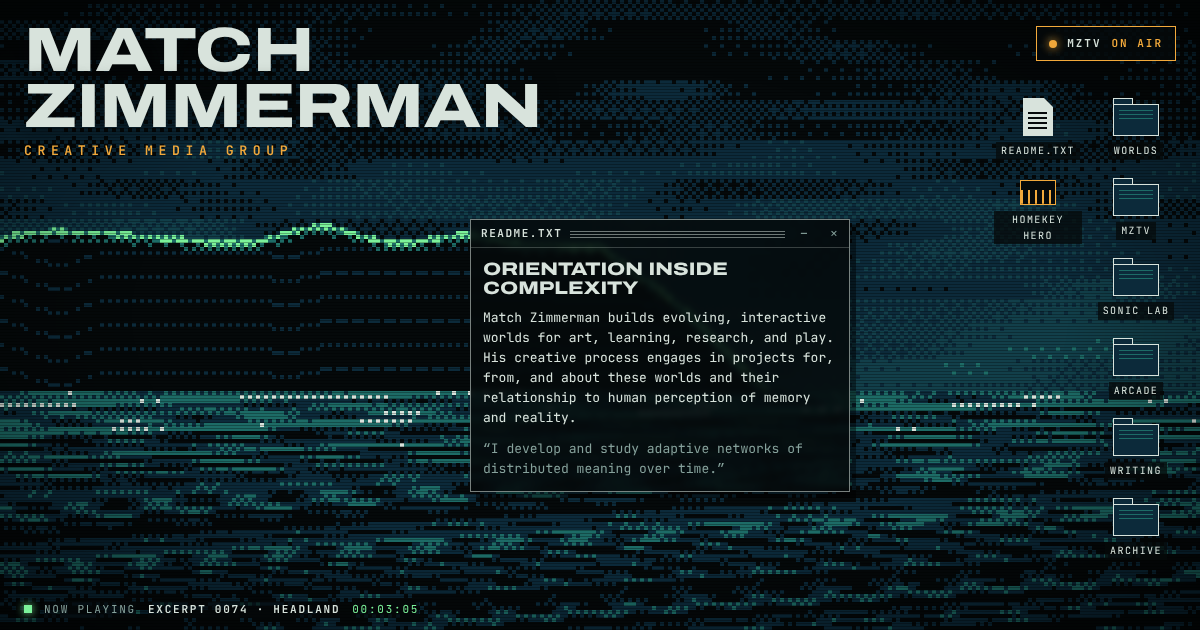
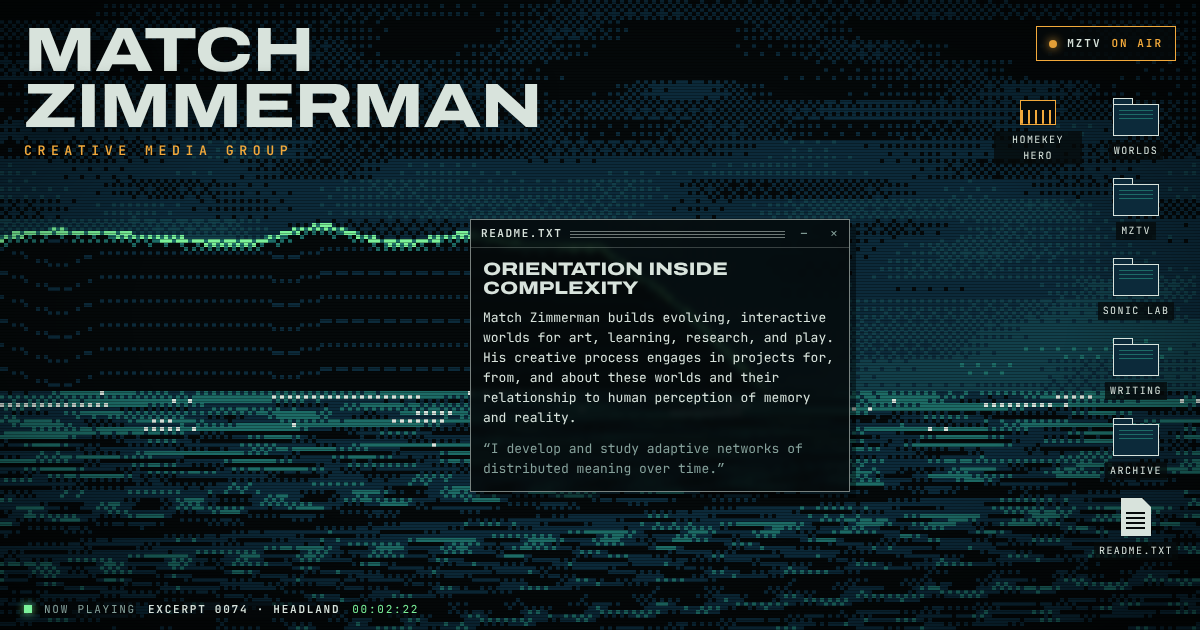
homepage: drop ARCADE folder, Signal 6, Recon and Battery Sort; HOMEKEY HERO stays on the desktop
Claude-Session: https://claude.ai/code/session_015LV6PRf31XyV7sFjyXnxDv

diff --git a/index.html b/index.html
@@ -560,7 +560,6 @@ const DEFS = {
   worlds: { title: 'WORLDS', w: 300, body: () => `<ul class="list">${item('inverin','INVERIN','4 studies')}${item('magpie','FIELD STATION: MAGPIE','narrative ecosystem')}${item('mzbrdz','MZBRDZ','world')}${item('earhart','EARHART','new')}${item('warren','WARREN','world')}</ul>` },
   tv: { title: 'MZTV', w: 300, body: () => `<ul class="list">${item('mztv','MZ TRIANGULATED WEATHER SYSTEM','program')}${item('orbit','BIT FIELD 017','orbit score')}${item('sounding','BIT FIELD 014','sounding')}${item('plant48','48 PLANT','interactive')}</ul>` },
   sonic: { title: 'SONIC LAB', w: 320, body: () => `<ul class="list">${item('squish','SQUISH//SYNTH 001','S · mobile')}${item('gull','GULL','M')}${item('banger','BANGER','M')}${item('serial','SERIAL','M')}${item('typefield','TYPE//FIELD','M')}${item('deckav','DECK//AV 001','L · video')}</ul>` },
-  arcade: { title: 'ARCADE', w: 320, body: () => `<ul class="list">${item('homekey','HOMEKEY HERO','L')}${item('signal6','SIGNAL 6','S')}${item('recon','MAGPIE · RECON','L')}${item('battery','BATTERY SORT','S')}${item('beatdef','OBAS BEAT DEFENSE','M')}${item('madlib','MADLIB 001','L')}</ul>` },
   archive: { title: 'ARCHIVE', w: 440, body: () => {
     const subs = [['fal','FIELD AUDIO LAB'],['obas','OBAS STUDIES'],['pre2026','PRE-2026 WORK'],['client','CLIENT WORK']];
     const loose = Object.keys(TOOLS).filter(k => TOOLS[k].loose);
@@ -570,7 +569,7 @@ const DEFS = {
       ${loose.map((id, i) => `<button class="dicon" data-open="${id}" style="transform:translate(${Math.round((hash(i * 5.7) - .5) * 14)}px,${Math.round((hash(i * 2.3) - .5) * 10)}px) rotate(${((hash(i * 9.1) - .5) * 8).toFixed(1)}deg)"><span class="file"></span><span class="lbl">${TOOLS[id].file}</span></button>`).join('')}
       </div><div class="status">${subs.length} FOLDERS · ${loose.length} FILES</div>`; } },
   fal: { title: 'FIELD AUDIO LAB', w: 320, body: () => `<span class="meta">SOUND AS MOVEMENT, PLACE AND MEMORY</span><ul class="list">${item('fas001','FIELD AUDIO SCAN 001','place → sound')}${item('zones','RESONANT ZONES','experiment')}${item('slice','SLICE SCANNER','experiment')}${item('memtrail','MEMORY TRAIL','experiment')}${item('direction','DIRECTIONAL FIELD','experiment')}${item('autowalk','AUTOWALK','experiment')}</ul>` },
-  obas: { title: 'OBAS STUDIES', w: 320, body: () => `<span class="meta">VOICE + TILE LINEAGES</span><ul class="list">${item('voicetype','OBAS VOICE TYPE FIELD','lineage')}${item('tilepulse','OBAS TILE PULSE 004','study')}</ul>` },
+  obas: { title: 'OBAS STUDIES', w: 320, body: () => `<span class="meta">VOICE, TILE + RHYTHM STUDIES</span><ul class="list">${item('voicetype','OBAS VOICE TYPE FIELD','lineage')}${item('tilepulse','OBAS TILE PULSE 004','study')}${item('beatdef','OBAS BEAT DEFENSE','game')}</ul>` },
   pre2026: { title: 'PRE-2026 WORK', w: 300, body: () => `<p style="color:var(--dim)">This folder is empty for now.</p>` },
   client: { title: 'CLIENT WORK', w: 300, body: () => `<p style="color:var(--dim)">This folder is empty for now.</p>` },
   writing: { title: 'WRITING', w: 300, body: () => `<ul class="list">${item('seals','TO SEE WHAT SEALS SEE','series')}${item('jcp','CURRICULUM + PEDAGOGY','article')}${item('readme','README.TXT','about')}</ul>` }
@@ -589,12 +588,9 @@ const TOOLS = {
   typefield:{ title: 'TYPE//FIELD', size: 'm', scene: 'lanes', kind: 'SONIC LAB · INSTRUMENT', href: '/preview/type-field/', text: 'A typing instrument. Keys you already know how to touch-type play notes and chords.' },
   deckav:   { title: 'DECK//AV 001 · DUB FIELD', size: 'l', scene: 'bog', video: true, kind: 'SONIC LAB · STEAM DECK INSTRUMENT', text: 'An autonomous audiovisual instrument for the Steam Deck, built in Godot. The Deck’s controls shape sound and image through one shared parameter system.' },
 
-  homekey:  { title: 'HOMEKEY HERO', size: 'l', scene: 'lanes', kind: 'ARCADE · RHYTHM GAME', href: '/preview/homekey-hero/', text: 'Each home-row key is a lane. Notes travel toward you, and typing them in time plays the song.' },
-  signal6:  { title: 'SIGNAL 6', size: 's', scene: 'testcard', kind: 'ARCADE · CARD GAME · MAGPIE', text: 'Build a tower and a radio, then race to confirm a transmission before your opponent jams it.' },
-  recon:    { title: 'FIELD STATION: MAGPIE · RECON', size: 'l', scene: 'magpie', kind: 'ARCADE · MAGPIE', text: 'Leave the bunker, scavenge parts, avoid the drone and build signal nodes that map the field.' },
-  battery:  { title: 'BATTERY SORT', size: 's', scene: 'testcard', kind: 'ARCADE · MAGPIE', text: 'A charge-sorting puzzle from the station’s power subsystem.' },
-  beatdef:  { title: 'OBAS BEAT DEFENSE', size: 'm', scene: 'lanes', kind: 'ARCADE · KEYBOARD', href: '/mz-audio-tools/obas-sector-defense/', text: 'A keyboard rhythm game where beat placement and timing become a defense.' },
-  madlib:   { title: 'MADLIB 001 · INVERTED FAIRGROUND', size: 'l', scene: 'testcard', kind: 'ARCADE · 3D WORLD', href: '/MZTV/sources/madlib-001-inverted-fairground/', text: 'An abandoned fairground, a mechanical bird and a glowing key. Examine the key and gravity reverses.' },
+  homekey:  { title: 'HOMEKEY HERO', size: 'l', scene: 'lanes', kind: 'GAME · TYPING RHYTHM', href: '/preview/homekey-hero/', text: 'Each home-row key is a lane. Notes travel toward you, and typing them in time plays the song.' },
+  beatdef:  { title: 'OBAS BEAT DEFENSE', size: 'm', scene: 'lanes', kind: 'OBAS STUDIES · KEYBOARD RHYTHM GAME', href: '/mz-audio-tools/obas-sector-defense/', text: 'A keyboard rhythm game where beat placement and timing become a defense.' },
+  madlib:   { title: 'MADLIB 001 · INVERTED FAIRGROUND', loose: true, file: 'madlib_001_inverted_fairground/', size: 'l', scene: 'testcard', kind: 'MZ WORLDS · PROTOTYPE', href: '/MZTV/sources/madlib-001-inverted-fairground/', text: 'An abandoned fairground, a mechanical bird and a glowing key. Examine the key and gravity reverses.' },
 
   fas001:   { title: 'FIELD AUDIO SCAN 001', kind: 'FIELD AUDIO LAB', href: '/field-audio-scan-001/', text: 'A LiDAR-derived place translated into a procedural sound environment.' },
   zones:    { title: 'RESONANT ZONES', kind: 'FIELD AUDIO LAB', href: '/field-audio-lab/zones/', text: 'Eight spatial regions become persistent voices.' },
@@ -651,11 +647,9 @@ Object.entries(TOOLS).forEach(([id, o]) => {
   const inPreview = Object.values(TOOLS).filter(o => o.href && o.href.startsWith('/preview/')).map(o => o.title);
   const looseNoPage = Object.values(TOOLS).filter(o => o.loose && !o.href).length;
   const f = s => `<span class="f">${s}</span>`;
-  const games = { signal6: 'signal_6', recon: 'magpie_recon', battery: 'battery_sort' };
-  const unbuilt = Object.keys(games).filter(id => !TOOLS[id].href).map(id => f(games[id]));
   const done = [
     'Desktop front page',
-    'Worlds, MZTV, Sonic Lab, Arcade and Archive folders',
+    'Worlds, MZTV, Sonic Lab and Archive folders',
     `Tools play inside their windows`,
     `${f('homekey_hero')} + ${f('type_field')} wired in`,
     'Field Station: Magpie exhibition tour video',
@@ -664,7 +658,6 @@ Object.entries(TOOLS).forEach(([id, o]) => {
   const todo = [
     'Real world footage in the background loops, starting with HEADLAND',
     'Mobile: suggest landscape orientation',
-    unbuilt.length && `Arcade: ${names(unbuilt)}`,
     TOOLS.deckav.video && `${f('deck_av_001')} demo video`,
     'Copy for SHEEPDOG, EARHART, WARREN and the rest',
     `Archive: pre-2026 + client work; ${f('optic_flight_001')} and friends still offline`,
@@ -716,7 +709,7 @@ addEventListener('blur', () => setTimeout(() => {
   if (a && a.tagName === 'IFRAME'){ const w = a.closest('.win'); if (w) focusWin(w); }
 }, 0));
 
-const ICONS = [['worlds','WORLDS','fold'],['tv','MZTV','fold'],['sonic','SONIC LAB','fold'],['arcade','ARCADE','fold'],
+const ICONS = [['worlds','WORLDS','fold'],['tv','MZTV','fold'],['sonic','SONIC LAB','fold'],
   ['writing','WRITING','fold'],['archive','ARCHIVE','fold'],['readme','README.TXT','file'],['homekey','HOMEKEY HERO','app']];
 
 /* ---------- window manager ---------- */

diff --git a/SITE-DEPLOYMENT.md b/SITE-DEPLOYMENT.md
@@ -38,7 +38,7 @@ When a major visual revision changes the stylesheet or JavaScript substantially,
 
 ## Current version
 
-MZCMG DESKTOP made the homepage 28 Oct 2026, at MZ.Human's direction. It's a desktop-style interface: a looping world excerpt in the background, draggable windows, folders (WORLDS, MZTV, SONIC LAB, ARCADE, WRITING, ARCHIVE), and a pinned site to-do note. Tools open as same-site iframes. The working copy that came before it is kept at `/preview/desktop-c794b166/`.
+MZCMG DESKTOP made the homepage 28 Oct 2026, at MZ.Human's direction. It's a desktop-style interface: a looping world excerpt in the background, draggable windows, folders (WORLDS, MZTV, SONIC LAB, WRITING, ARCHIVE) plus a loose HOMEKEY HERO icon, and a pinned site to-do note. Tools open as same-site iframes. The working copy that came before it is kept at `/preview/desktop-c794b166/`.
 
 ## Previous version
 
